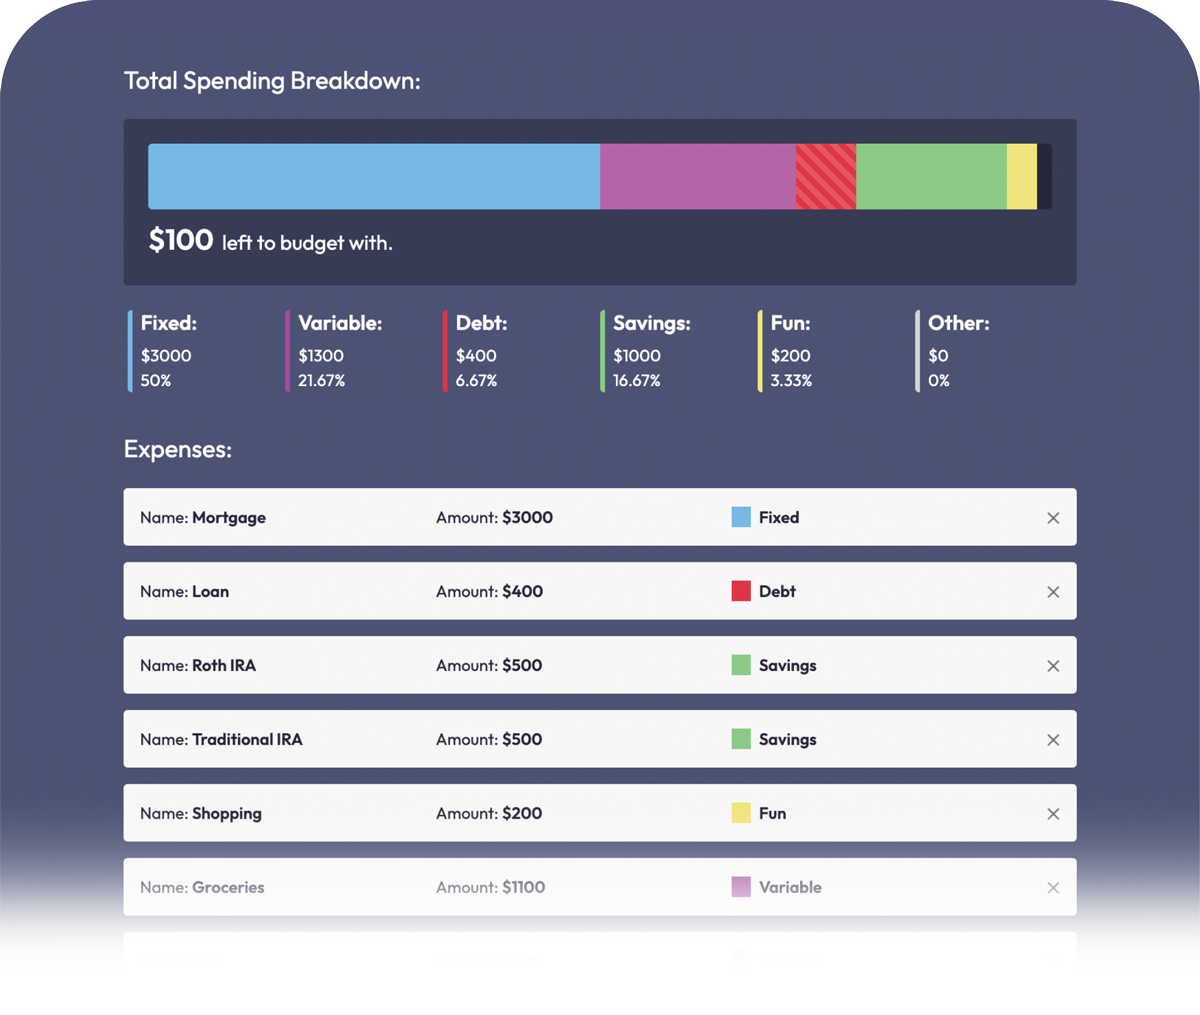
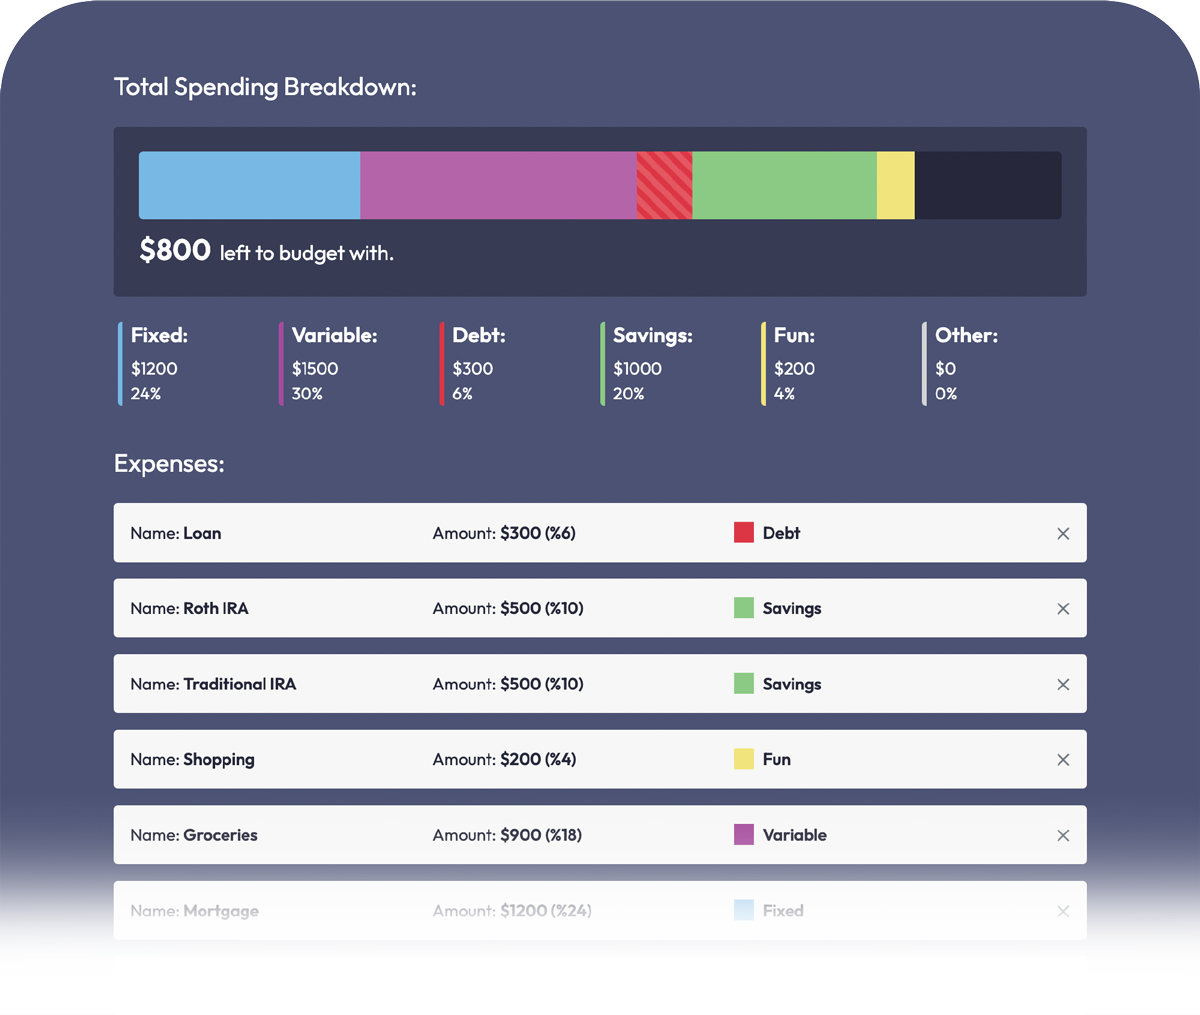
Display percentages for each expense item.

Changed region(s): [[0.0925, 0.4276, 0.925, 0.9163], [0.0925, 0.0611, 0.925, 0.397]]

diff --git a/js/ajax_post_to_form_submit_action.js b/js/ajax_post_to_form_submit_action.js
@@ -51,7 +51,7 @@ function ajaxRequestToPhpForProcessing(e) {
       // Update bar graph...
       updateBarGraph(result);
       // Print the expense items list to the page...
-      printExpensesToPage(result["all_expenses"]);
+      printExpensesToPage(result["all_expenses"], result["income_amount"]);
       // Clear expense item fields after submission...
       clearExpenseFields();
     },
@@ -73,7 +73,7 @@ expenseListContainer.addEventListener("click", (e) => {
         // Update bar graph...
         updateBarGraph(result);
         // Print the expense items list to the page...
-        printExpensesToPage(result["all_expenses"]);
+        printExpensesToPage(result["all_expenses"], result["income_amount"]);
       },
     });
   }
@@ -138,7 +138,7 @@ function updateBarGraph(result) {
 }
 
 // Function to print each expense item to the the page – creating a list of items...
-function printExpensesToPage(result) {
+function printExpensesToPage(result, incomeAmount) {
   expenseListContainer.innerHTML = "";
   result.forEach((expenseItem) => {
     let containerForExpense = document.createElement("div");
@@ -146,7 +146,7 @@ function printExpensesToPage(result) {
       <form id="expense-id-${expenseItem[0]}" data-user-id="${expenseItem[1]}" class="container d-flex mb-3 p-3 pe-5 flex-column flex-md-row position-relative align-items-center bg-light rounded expense-entry-block">
         <input type="hidden" name="expense_item" value="${expenseItem[0]}">
         <p class="d-block m-0 w-100 align-self-start">Name: <span class="fw-bold">${expenseItem[2]}</span></p>
-        <p class="d-block m-0 w-100 align-self-start">Amount: <span class="fw-bold">$${expenseItem[3]}</span></p>
+        <p class="d-block m-0 w-100 align-self-start">Amount: <span class="fw-bold">$${expenseItem[3]}</span> <span class="fw-bold">(%${findExpensePercentageRelativeToTotalBudgetIncomeAmount(incomeAmount, expenseItem[3])})</span></p>
         <p class="d-block m-0 w-100 align-self-start"><span class="fw-bold ${expenseItem[4]}">${expenseItem[4]}</span></p>
         <input type="submit" value="✕" id="${expenseItem[0]}" class="remove-btn btn fw-bolder text-secondary position-absolute px-3 py-0 mt-3 top-0 end-0">
       </form>`;
@@ -162,6 +162,12 @@ function clearExpenseFields() {
   }
 }
 
+// Function to calculate percentages for each expense item in the list...
+function findExpensePercentageRelativeToTotalBudgetIncomeAmount(totalIncomeAmount, expenseAmount) {
+  let expensePercentage = ((expenseAmount/totalIncomeAmount) * 100);
+  let roundedExpensePercentage = (Math.round(expensePercentage * 100) / 100);
+  return roundedExpensePercentage;
+}
 
 // Function to limit what the user can enter into input fields...
 function restrictFieldInput(event) {

diff --git a/php/budget_queries/form_submit_action.php b/php/budget_queries/form_submit_action.php
@@ -62,7 +62,8 @@ if ($_SERVER['REQUEST_METHOD'] == 'POST') {
         'savings_percentage' => $savings_percentage,
         'fun_percentage' => $fun_percentage,
         'other_percentage' => $other_percentage,
-        'all_expenses' => $resultset
+        'all_expenses' => $resultset,
+        'income_amount' => $current_income
     );
 
     echo json_encode($all_budget_data);
